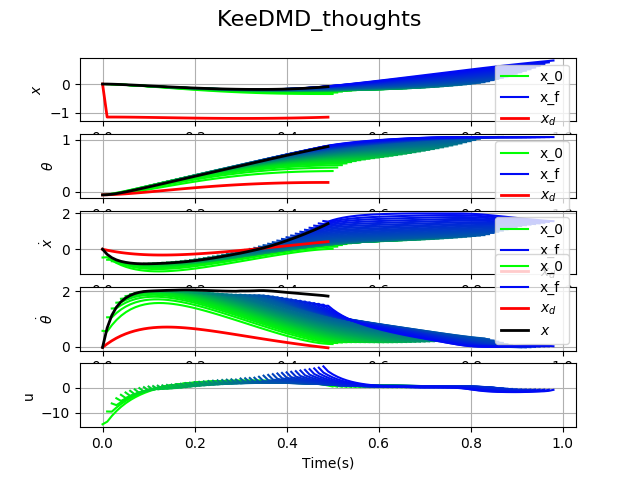
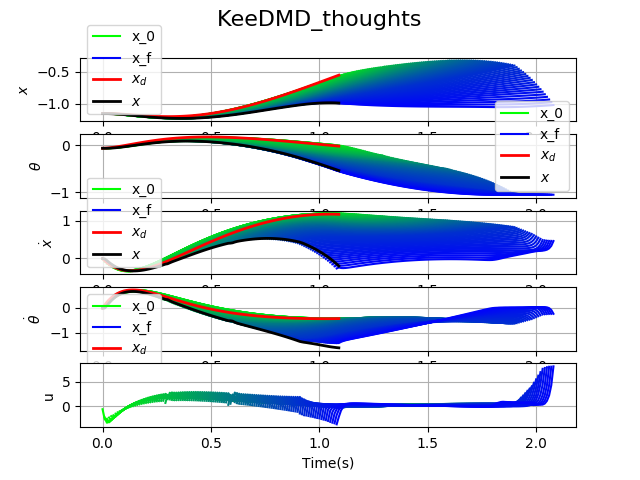
mpc edmd almost working

diff --git a/core/examples/cart_pole_learning.py b/core/examples/cart_pole_learning.py
@@ -107,7 +107,7 @@ closed_filename = 'closed_loop.png'
 #! ===============================================    COLLECT DATA     ===============================================
 #* Load trajectories
 print("Collect data.")
-print(" - Generate optimal desired path..", end =" ")
+print(" - Generate optimal desired path..", end=" ")
 t0 = time.process_time()
 
 R = sparse.eye(m)
@@ -395,15 +395,15 @@ if test_open_loop:
 #%%  
 #!==============================================  EVALUATE PERFORMANCE -- CLOSED LOOP =============================================
 t0 = time.process_time()
-print('Evaluate Performance with closed loop trajectory tracking...', end =" ")
+print('Evaluate Performance with closed loop trajectory tracking...', end=" ")
 # Set up trajectory and controller for prediction task:
 q_d_pred = q_d[4,:,:].transpose()
-q_d_pred = q_d_pred[:,:int(q_d_pred.shape[1]/2*1.4)]
+q_d_pred = q_d_pred[:,:int(q_d_pred.shape[1]/2*1.1)]
 #q_d_pred = np.zeros(q_d_pred.shape)
 x_0 = q_d_pred[:,0]
 #x_0[0] = 0
 t_pred = t_d.squeeze()
-t_pred = t_pred[:int(t_pred.shape[0]/2*1.4)]
+t_pred = t_pred[:int(t_pred.shape[0]/2*1.1)]
 noise_var_pred = 0.5
 output_pred = CartPoleTrajectory(system_true, q_d_pred,t_pred)
 
@@ -440,7 +440,8 @@ edmd_controller = MPCControllerDense(linear_dynamics=edmd_sys,
                                 xr=q_d_pred,
                                 lifting=True,
                                 edmd_object=edmd_model,
-                                plotMPC=plotMPC)
+                                plotMPC=plotMPC,
+                                name='KEEDMD')
 
 xs_edmd_MPC, us_emdm_MPC = system_true.simulate(x_0, edmd_controller, t_pred)
 xs_edmd_MPC = xs_edmd_MPC.transpose()
@@ -450,9 +451,7 @@ if plotMPC:
     edmd_controller.finish_plot(xs_edmd_MPC, us_emdm_MPC, us_lin_PD, t_pred,"eDMD_thoughts.png") 
 
 # Linearized with MPC
-eye_lifting = Edmd(basis=IdentityBF(n))
-eye_lifting.C = np.eye(n)
-linearlize_mpc_controller = MPCControllerDense(linear_dynamics=nominal_sys, 
+""" linearlize_mpc_controller = MPCControllerDense(linear_dynamics=nominal_sys, 
                                                 N=int(MPC_horizon/dt),
                                                 dt=dt, 
                                                 umin=array([-umax_control]), 
@@ -462,16 +461,15 @@ linearlize_mpc_controller = MPCControllerDense(linear_dynamics=nominal_sys,
                                                 Q=Q, 
                                                 R=R, 
                                                 QN=QN, 
-                                                xr=q_d_pred,      
-                                                lifting=True,
-                                                edmd_object=eye_lifting,          
-                                                plotMPC=plotMPC)
+                                                xr=q_d_pred,             
+                                                plotMPC=plotMPC,
+                                                name='Lin')
 
 xs_lin_MPC, us_lin_MPC = system_true.simulate(x_0, linearlize_mpc_controller, t_pred)
 xs_lin_MPC = xs_lin_MPC.transpose()
 us_lin_MPC = us_lin_MPC.transpose()
 if plotMPC:
-    linearlize_mpc_controller.finish_plot(xs_lin_MPC,us_lin_MPC, us_lin_PD, t_pred,"LinMPC_thoughts.png") 
+    linearlize_mpc_controller.finish_plot(xs_lin_MPC,us_lin_MPC, us_lin_PD, t_pred,"LinMPC_thoughts.png")  """
 
 
 """ figure()
@@ -488,7 +486,7 @@ xs_lin_PD, us_lin_PD = system_true.simulate(x_0, linearlize_PD_controller, t_pre
 xs_lin_PD = xs_lin_PD.transpose()
 
 
-""" keedmd_sys = LinearSystemDynamics(A=keedmd_model.A, B=keedmd_model.B)
+keedmd_sys = LinearSystemDynamics(A=keedmd_model.A, B=keedmd_model.B)
 keedmd_controller = MPCControllerDense(linear_dynamics=keedmd_sys, 
                                 N=int(MPC_horizon/dt),
                                 dt=dt, 
@@ -502,14 +500,16 @@ keedmd_controller = MPCControllerDense(linear_dynamics=keedmd_sys,
                                 xr=q_d_pred,
                                 lifting=True,
                                 edmd_object=keedmd_model,
-                                plotMPC=plotMPC)
+                                plotMPC=plotMPC,
+                                name='KEEDMD')
+
 
 xs_keedmd_MPC, us_keedmd_MPC = system_true.simulate(x_0, keedmd_controller, t_pred)
 xs_keedmd_MPC = xs_keedmd_MPC.transpose()
 us_keedmd_MPC = us_keedmd_MPC.transpose()
 
 if plotMPC:
-    keedmd_controller.finish_plot(xs_keedmd_MPC,us_keedmd_MPC, us_lin_PD, t_pred,"KeeDMD_thoughts.png") """
+    keedmd_controller.finish_plot(xs_keedmd_MPC,us_keedmd_MPC, us_lin_PD, t_pred,"KeeDMD_thoughts.png")
 
 """ figure()
 hist(keedmd_controller.run_time*1000)
@@ -534,14 +534,14 @@ for ii in range(n):
     subplot(n, 1, ii+1)
     plot(t_pred, q_d_pred[ii,:], linestyle="--",linewidth=2, label='reference')
     plot(t_pred, xs_edmd_MPC[ii,:], linewidth=2, label='eDMD with MPC')
-    #plot(t_pred, xs_keedmd_MPC[ii,:], linewidth=2, label='KeeDMD with MPC')
+    plot(t_pred, xs_keedmd_MPC[ii,:], linewidth=2, label='KeeDMD with MPC')
     #plot(t_pred, xs_lin_MPC[ii,:], linewidth=2, label='Linearized dynamics with MPC')
     plot(t_pred, xs_lin_PD[ii,:], linewidth=2, label='Linearized dynamics with PD Controller')
     xlabel('Time (s)')
     ylabel(ylabels[ii])
     grid()
     if ii == 0:
-        title('Closed loop performance of different models with open loop control')
+        title('Closed loop performance of different models')
 legend(fontsize=10, loc='best')
 savefig(closed_filename)
 show()

diff --git a/core/controllers/mpc_controller_dense.py b/core/controllers/mpc_controller_dense.py
@@ -34,7 +34,8 @@ class MPCControllerDense(Controller):
 
     Use lifting=True to solve MPC in the lifted space
     """
-    def __init__(self, linear_dynamics, N, dt, umin, umax, xmin, xmax, Q, R, QN, xr, plotMPC=False, plotMPC_filename="",lifting=False, edmd_object=Edmd()):
+    def __init__(self, linear_dynamics, N, dt, umin, umax, xmin, xmax, 
+                Q, R, QN, xr, plotMPC=False, plotMPC_filename="",lifting=False, edmd_object=Edmd(),name="noname"):
         """Create an MPC Controller object.
 
         Sizes:
@@ -134,7 +135,7 @@ class MPCControllerDense(Controller):
         self.a = a
         self.B = B
 
-        check_ab = False
+        check_ab = True
         if check_ab:
             x0  = np.linspace(-5,40,nx)
             x00 = np.linspace(-5,40,nx)
@@ -157,21 +158,22 @@ class MPCControllerDense(Controller):
             x_dense = np.reshape(a @ x00 + B @ (ust.flatten('F')),(N,nx)).T
 
             plt.figure()
+            plt.subplot(2,1,1)
             for i in range(nx):
                 plt.plot(range(nsim),xst[i,:],'d',label="sim "+str(i))
                 plt.plot(range(nsim),x_dense[i,:],'d',label="ax+bu "+str(i))
             plt.xlabel('Time(s)')
             plt.grid()
             plt.legend()
-            plt.show()
 
-
+            plt.subplot(2,1,2)
             for i in range(nu):
                 plt.plot(range(nsim),ust[i,:],label=str(i))
             plt.xlabel('Time(s)')
             plt.grid()
             plt.legend()
-            plt.show()  
+            plt.savefig("AB_check_for_"+name+".png",bbox_inches='tight')
+            plt.close()
 
 
         # Cast MPC problem to a QP: x = (x(0),x(1),...,x(N),u(0),...,u(N-1))
@@ -246,8 +248,9 @@ class MPCControllerDense(Controller):
             plt.title("q in $J=u^TPu+q^Tu$")
             plt.grid()
             plt.tight_layout()
-            plt.savefig("Sparse MPC.png",bbox_inches='tight')
-            plt.show()
+            plt.savefig("MPC_matrices_for_"+name+".png",bbox_inches='tight')
+            plt.close()
+            #plt.show()
 
         # Create an OSQP object
         self.prob = osqp.OSQP()
@@ -380,6 +383,7 @@ class MPCControllerDense(Controller):
             self.axs[ii+self.ns].plot(time_vector[:-1],u_pd[ii,:],label='$u_{PD}$',color=[0,1,1])
             self.axs[ii+self.ns].legend(fontsize=10, loc='best') """
         self.fig.savefig(filename)
+        plt.close()
         #plt.close(self.fig)
 
 
